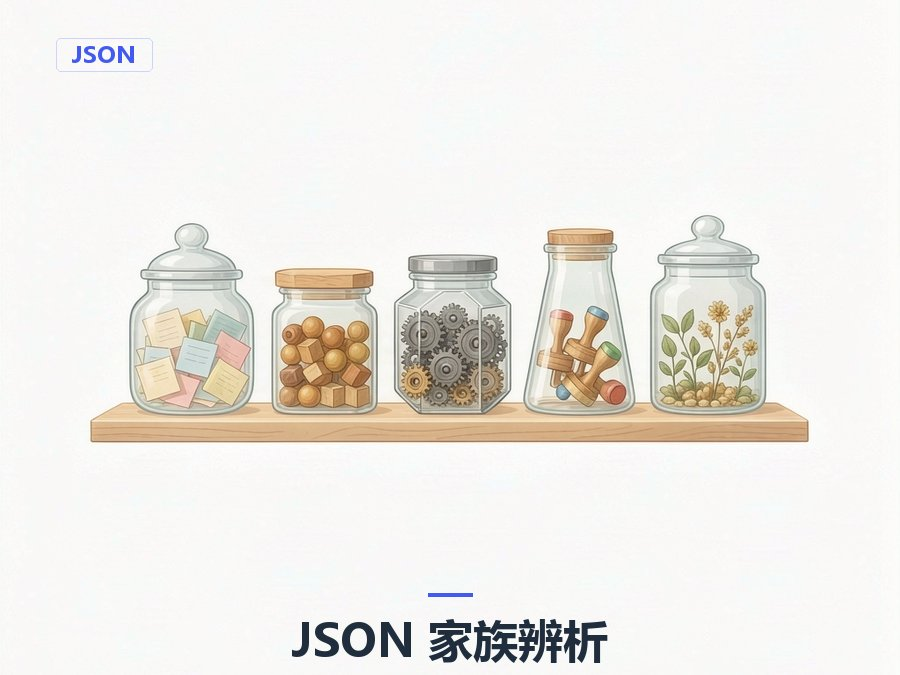
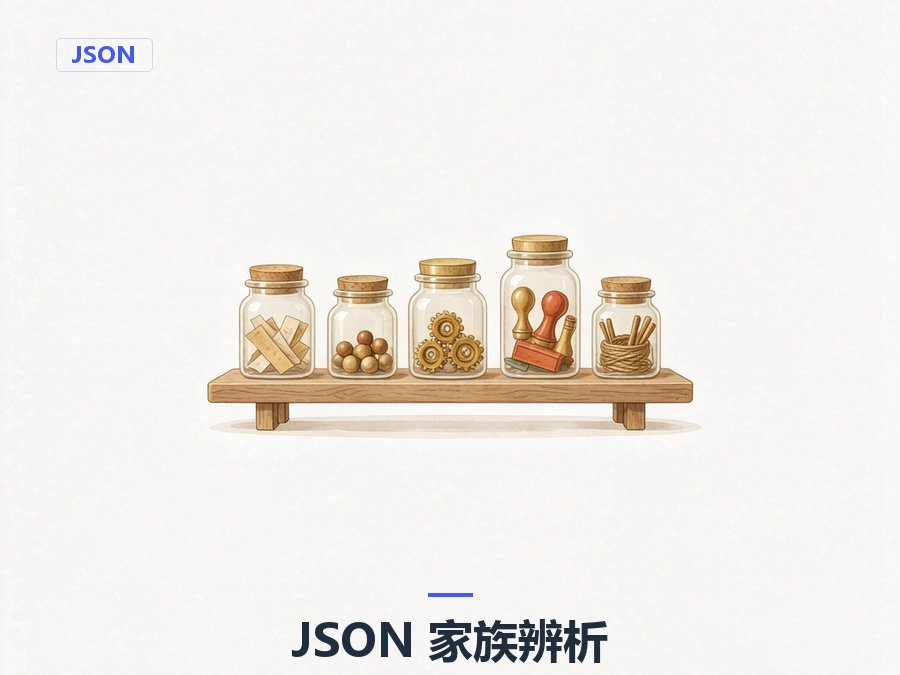
cover: 4 张 doubao 封面改暖色系新配色，替换蓝紫旧图

Changed region(s): [[0.0933, 0.3111, 0.9022, 0.6533]]

diff --git a/tools/magpie-covers.py b/tools/magpie-covers.py
@@ -4,15 +4,15 @@
 # 只负责「没有官方 logo 可用」的文章（算法、AI 笔记、项目拆解、默认封面）；
 # 框架/工具类文章的封面走 tools/make-covers.py（白底 + 官方 logo，沿用品牌色）。
 #
-# 配色：贴合实际生活的自然配色（木质、金属、织物、食物、皮肤等真实颜色），
-# 保持画面干净明亮，避免脏灰、荧光色与全图蓝紫洗。
+# 配色硬约束：整体暖色自然系（木棕、奶油、米白、灰绿、陶土），严禁蓝紫主调或冷青色。
+# doubao 会默认蓝紫洗，所以配色要求写两遍：STYLE 里锁一次，每条 prompt 再点名一次。
 # 生成后压到 900x675（4:3）quality 85。
 # 落盘目录：文章封面 source/img/<年>/<月>/，站点级图片 source/img/common/
 # （按「哪篇文章引用了这张封面」自动定位，见 tools/imgpaths.py；文章还没写
 #   frontmatter 时加 --dir <目录>）
 #
-# 生成模型：默认 openrouter/google/gemini-3.1-flash-image（走 Magpie 的 OpenRouter
-# 通道），可用 --model 覆盖；不使用腾讯系模型。
+# 生成模型：默认 loomy/doubao-seedream-5-lite（讯飞 Loomy 通道），可用 --model 覆盖；
+# 不使用腾讯系模型（OpenRouter 系列区域受限不可用）。
 #
 # 用法：
 #   python tools/magpie-covers.py                  # 全部
@@ -31,16 +31,16 @@ from magpie_mcp import MagpieImage, DEFAULT_MODEL
 
 OUT_W, OUT_H = 900, 675
 QUALITY = 85
-# 风格模板：自然配色 + 扁平矢量，整幅完整入画。
+# 风格模板：暖色自然系 + 扁平矢量，整幅完整入画。
 # 文字由脚本在本地合成（不交给模型画）——本地叠字字形一定正确，不会错字。
-STYLE = ('natural, lifelike colors that fit each object in everyday life (wood, metal, fabric, food, '
-         'plant greens, skin tones where appropriate), a soft cohesive palette, '
+STYLE = ('warm natural lifelike colors, earthy palette of wood brown, cream, beige, sage green, '
+         'terracotta and soft warm whites, a soft cohesive palette, '
          'clean bright background with generous empty space around the subject, '
          'minimal flat vector illustration, concrete recognizable objects in a clear real-world scene '
          '(a machine, a device, a tool, physical props), never abstract node graphs, arrows, or color-block patterns, '
          'zoomed out wide shot, entire composition fully visible '
          'inside the frame, centered with wide margins on all sides, nothing cropped, '
-         'no full-image blue or purple wash, no neon colors, no muddy gray, '
+         'no full-image blue or purple wash, no cold cyan tones, no neon colors, no muddy gray, '
          'no 3d render, no photorealistic, no text, no letters, no watermark, no signature')
 
 # ── 图内短标签（可选；本地渲染，英文/中文都不会错字）──
@@ -71,15 +71,15 @@ TEXTS = {
 }
 
 PROMPTS = {
-    'pi-agent-loop':    'minimal composition, a single small subject centered with very large empty margins on all four sides, a small golden gear with a smooth flywheel driving a tiny chain, an engine in motion concept, pure white background, ' + STYLE,
-    'pi-model-layer':    'minimal composition, a single small subject centered with very large empty margins on all four sides, a translator figure at a small desk working on one document, multi-format translation concept, ' + STYLE,
-    'pi-tool-pipeline':    'flat vector illustration of a neat workbench with a simple robotic arm holding a wrench above a small workpiece, a few hand tools (screwdriver, wrench, pliers) neatly arranged beside it, tool use concept, ' + STYLE,
-    'pi-message-system':    'flat vector illustration of a single open envelope floating in the center of a plain background, slightly open to reveal a richly detailed inner document with colorful stamps and handwritten notes, a single centered subject with generous empty space around all edges, ' + STYLE,
-    'pi-context-engineering':    'minimal composition, a single small subject centered with very large empty margins on all four sides, a paper funnel pressing a stack of loose documents down into one small neat summary card, context compression concept, pure white background, ' + STYLE,
-    'pi-session-tree':    'minimal composition, a single small subject centered with very large empty margins on all four sides, a single bare stylized winter tree with symmetrically branching wooden branches and small round glowing fruits hanging at each branch tip, growth and branching concept, pure white background, ' + STYLE,
-    'pi-extension-events':    'minimal composition, a single small subject centered with very large empty margins on all four sides, a set of clear bell-shaped light bulbs connected by thin elegant wires with small glowing signals traveling along them, signal and connection concept, pure white background, ' + STYLE,
-    'pi-tui-rendering':    'minimal composition, a single small subject centered with very large empty margins on all four sides, a small old-style green-screen computer terminal with a neat grid of glowing monochrome text lines on its screen, terminal display concept, pure white background, ' + STYLE,
-    'json-family-protocols':    'minimal composition, a single small subject centered with very large empty margins on all four sides, a neat wooden shelf holding five differently shaped glass jars, each jar filled with a different kind of small colorful items (folded paper slips, wooden beads, tiny gears, rubber stamps), sorting and comparing collection concept, pure white background, ' + STYLE,
+    'pi-agent-loop':    'minimal composition, a single small subject centered with very large empty margins on all four sides, a small golden gear with a smooth flywheel driving a tiny chain, an engine in motion concept, warm wood tones and cream background, ' + STYLE,
+    'pi-model-layer':    'minimal composition, a single small subject centered with very large empty margins on all four sides, a translator figure at a small desk working on one document, multi-format translation concept, warm wood tones and cream background, ' + STYLE,
+    'pi-tool-pipeline':    'flat vector illustration of a neat workbench with a simple robotic arm holding a wrench above a small workpiece, a few hand tools (screwdriver, wrench, pliers) neatly arranged beside it, tool use concept, warm wood workbench tones, ' + STYLE,
+    'pi-message-system':    'flat vector illustration of a single open envelope floating in the center of a plain background, slightly open to reveal a richly detailed inner document with colorful stamps and handwritten notes, a single centered subject with generous empty space around all edges, warm cream paper tones, ' + STYLE,
+    'pi-context-engineering':    'minimal composition, a single small subject centered with very large empty margins on all four sides, a paper funnel pressing a stack of loose documents down into one small neat summary card, context compression concept, warm cream paper tones, ' + STYLE,
+    'pi-session-tree':    'minimal composition, a small subject centered with huge empty space on all four sides, nothing near the frame edges, a single bare stylized tree with symmetrically branching wooden branches and small round warm-colored fruits (amber, terracotta, olive) hanging at each branch tip, growth and branching concept, on a pure white background, bright white, ' + STYLE,
+    'pi-extension-events':    'minimal composition, a small subject centered with huge empty space on all four sides, nothing near the frame edges, a small vintage wooden radio with a few hanging amber light bulbs connected by thin wires, signal and connection concept, warm amber glow, on a pure white background, bright white, ' + STYLE,
+    'pi-tui-rendering':    'minimal composition, a single small subject centered with very large empty margins on all four sides, a small old-style desktop computer with a green-screen display showing neat monochrome text lines on it, warm beige retro computer tones, ' + STYLE,
+    'json-family-protocols':    'minimal composition, a small subject centered with huge empty space on all four sides, nothing near the frame edges, a wooden shelf with five small differently shaped glass jars, each jar holding a different kind of warm-colored small items (paper slips, wooden beads, brass gears, rubber stamps), sorting and comparing concept, on a pure white background, bright white, ' + STYLE,
 }
 
 CAPTION_FONT = 'C:/Windows/Fonts/msyhbd.ttc'
@@ -114,6 +114,8 @@ def draw_label(im, text):
         radius=int(5 * scale), outline=(205, 214, 250), width=max(1, int(scale)))
     draw.text((x0 + pad_x - box[0], y0 + pad_y - box[1]), text, font=font, fill=(66, 90, 239))
     return im
+
+
 def postprocess(raw_path, out_path, text, label):
     """下载 → 中心裁成 4:3 → 压到 900x675 → 叠小标题 → 落盘，
     返回 (尺寸, KB, 平均亮度, 内容留白比例)"""
